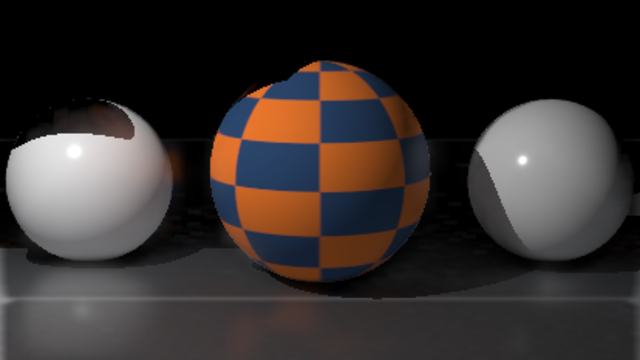
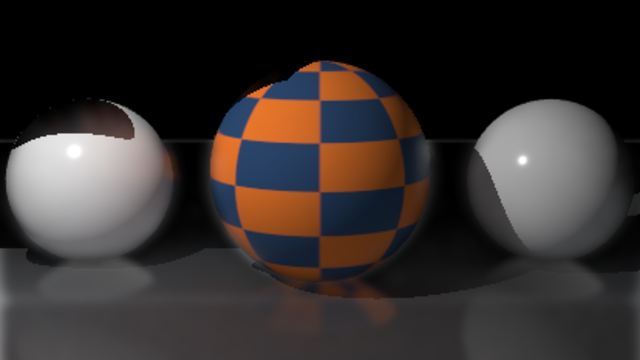
fix(#302): soften the shadow map's edge and script the moving check
One session with lights, shadows, ambient occlusion, bounce light, textures
and depth of field on, driven through a 360 orbit, a dolly, a low terminator
sweep and twelve still frames. The bounce and reflection work holds in
motion: still frames are bit-identical and no frame-to-frame step stands
above its neighbours, so there is no speckle, tier pop or reflection offset.

What the moving frames did show was the shadow map's cast edge: at a close
view one texel is many pixels, so the sphere's shadow on the floor was a
hard chunky boundary that crawled as the camera moved. The percentage-
closer filter now gathers 5 by 5 texels and the shadow sampler is bilinear,
turning that edge into a soft penumbra. It costs 25 taps instead of 9 in a
shadowed fragment; the capture still ran at about 20 frames a second at
734 by 708 including the PNG write.

`tools/render_parity/motion_capture.py` repeats the whole check in one
launch, and `modelEditor -depthOfField` drives that viewport toggle from
scripts. The parity captures are recaptured for the softer shadow.

diff --git a/tools/render_parity/motion_capture.py b/tools/render_parity/motion_capture.py
@@ -1,0 +1,99 @@
+"""A moving check of the realtime viewport: one session, every feature on, four camera passes.
+
+Run it with the app:
+
+    MOTION_OUT=/tmp/aztek_motion build/Aztek/AppRun --script tools/render_parity/motion_capture.py \
+        examples/rendering/reflections.ma
+
+It turns on Realtime's lights, shadows, ambient occlusion, bounce light, textures and depth of field, then writes:
+
+  orbit.####.png   a full 360-degree turntable at constant speed
+  dolly.####.png   a dolly from far away to close and back, with the focus tracking the subject
+  sweep.####.png   a low sweep from the lit side to the dark side, so the terminator crosses the spheres
+  still.####.png   twelve frames of an unmoving camera; any difference between them is temporal instability
+
+All but the last use keyframed cameras and the app's own playblast, so the motion is smooth and one launch serves the
+whole pass. The frames are the viewport size at 100 percent. Hide the grid and the ornaments: they are guides, and at
+grazing angles the grid's smooth lines can read over a sphere, which is a display layer and not the shaded picture.
+"""
+import os
+import maya.cmds as cmds
+
+OUT = os.environ.get("MOTION_OUT", "/tmp/aztek_motion")
+os.makedirs(OUT, exist_ok=True)
+
+panel = cmds.playblast(q=True, activeEditor=True)
+cmds.modelEditor(panel, edit=True, displayLights="all", shadows=True, ambientOcclusion=True,
+                 bounceLight=True, depthOfField=True, displayTextures=True, grid=False)
+state = {
+    "displayLights": cmds.modelEditor(panel, q=True, displayLights=True),
+    "shadows": cmds.modelEditor(panel, q=True, shadows=True),
+    "ambientOcclusion": cmds.modelEditor(panel, q=True, ambientOcclusion=True),
+    "bounceLight": cmds.modelEditor(panel, q=True, bounceLight=True),
+    "depthOfField": cmds.modelEditor(panel, q=True, depthOfField=True),
+    "displayTextures": cmds.modelEditor(panel, q=True, displayTextures=True),
+    "grid": cmds.modelEditor(panel, q=True, grid=True),
+}
+print("MOTION FEATURES", state)
+
+
+def make(name, pos, focus):
+    made = cmds.camera(n=name, focalLength=42)
+    tr = made[0] if isinstance(made, (list, tuple)) else made
+    sh = made[1] if isinstance(made, (list, tuple)) and len(made) > 1 else tr + "Shape"
+    pivot = cmds.group(em=True, n=name + "Pivot")
+    cmds.move(0, 1.5, 0, pivot)
+    cmds.parent(tr, pivot, r=True)
+    cmds.move(pos[0], pos[1], pos[2], tr, os=True, r=True)
+    cmds.aimConstraint(pivot, tr, aim=(0, 0, -1), u=(0, 1, 0))
+    cmds.setAttr(sh + ".depthOfField", 1)
+    cmds.setAttr(sh + ".fStop", 1.4)
+    cmds.setAttr(sh + ".focusDistance", focus)
+    cmds.lookThru(tr)
+    return tr, sh, pivot
+
+
+def play(stem, last):
+    cmds.playbackOptions(min=1, max=last)
+    path = os.path.join(OUT, stem)
+    cmds.playblast(st=1, et=last, f=path, fmt="image", c="png", v=False, fo=True, p=100, showOrnaments=False)
+    print("MOTION WRITTEN", path)
+
+
+# (a) Full 360 orbit at constant speed.
+N = 90
+tr, sh, pivot = make("orbitCam", (0, 2.2, 12), 12.0)
+cmds.setKeyframe(pivot, at="ry", t=1, v=0)
+cmds.setKeyframe(pivot, at="ry", t=N + 1, v=360)
+cmds.keyTangent(pivot, at="ry", itt="linear", ott="linear")
+play("orbit", N)
+
+# (b) Dolly from very distant to close and back, focus tracking the subject.
+N = 90
+tr, sh, pivot = make("dollyCam", (0, 2.2, 60), 60.0)
+cmds.setKeyframe(tr, at="tz", t=1, v=60)
+cmds.setKeyframe(tr, at="tz", t=45, v=8)
+cmds.setKeyframe(tr, at="tz", t=N + 1, v=60)
+cmds.keyTangent(tr, at="tz", itt="linear", ott="linear")
+cmds.setKeyframe(sh, at="focusDistance", t=1, v=60)
+cmds.setKeyframe(sh, at="focusDistance", t=45, v=8.3)
+cmds.setKeyframe(sh, at="focusDistance", t=N + 1, v=60)
+cmds.keyTangent(sh, at="focusDistance", itt="linear", ott="linear")
+play("dolly", N)
+
+# (c) Low sweep from the lit side to the dark side, so the terminator crosses the spheres.
+N = 90
+tr, sh, pivot = make("sweepCam", (0, 0.1, 11), 11.0)
+cmds.setKeyframe(pivot, at="ry", t=1, v=0)
+cmds.setKeyframe(pivot, at="ry", t=N + 1, v=180)
+cmds.keyTangent(pivot, at="ry", itt="linear", ott="linear")
+play("sweep", N)
+
+# (d) A still camera for twelve frames: any change here is temporal instability, not motion.
+tr, sh, pivot = make("stillCam", (0, 2.2, 12), 12.0)
+last = 12
+cmds.playbackOptions(min=1, max=last)
+cmds.playblast(st=1, et=last, f=os.path.join(OUT, "still"), fmt="image", c="png", v=False, fo=True, p=100, showOrnaments=False)
+print("MOTION WRITTEN", os.path.join(OUT, "still"))
+
+print("MOTION DONE")

diff --git a/crates/aztek_host/src/panel_cmds.rs b/crates/aztek_host/src/panel_cmds.rs
@@ -166,6 +166,7 @@ const DISP: &[(&str, &str)] = &[
     ("shadows", "shadows"),
     ("bounceLight", "bounceLight"),
     ("ambientOcclusion", "ambientOcclusion"),
+    ("depthOfField", "depthOfField"),
     ("manipulators", "manipulators"),
     ("xray", "xray"),
     ("xrayJoints", "jointXray"),
@@ -251,7 +252,7 @@ fn get_panel(a: &Args) -> CmdResult {
     })
 }
 
-const EDITOR_FLAGS: &str = "activeOnly:ao:b activeView:av:b allObjects:alo:b ambientOcclusion:aoc:b backfaceCulling:bfc:b bounceLight:bl:b camera:cam:a cameras:ca:b clipGhosts:cg:b controlVertices:cv:b controllers:ctrl:b deformers:df:b dimensions:dim:b displayAppearance:da:a displayLights:dl:a displayTextures:dtx:b dynamicConstraints:dc:b dynamics:dy:b fluids:fl:b follicles:fo:b fogging:fg:b grid:gr:b hairSystems:hs:b handles:ha:b headsUpDisplay:hud:b hulls:hu:b ikHandles:ikh:b imagePlane:imp:b joints:j:b jointXray:jx:b lights:lt:b locators:lc:b lockMainConnection:lck:b lowQualityLighting:lql:b manipulators:m:b motionTrails:mt:b nCloths:ncl:b nParticles:npa:b nRigids:nr:b nurbsCurves:nc:b nurbsSurfaces:ns:b objectFilterShowInHUD:ofs:b panel:pnl:a parent:p:a pivots:pv:b planes:pl:b pluginObjects:po:a2 pluginShapes:ps:b polymeshes:pm:b rendererName:rnm:a selectionHiliteDisplay:sel:b shadows:sdw:b smoothWireframe:swf:b sortTransparent:st:b strokes:str:b subdivSurfaces:sds:b textures:tx:b twoSidedLighting:tsl:b useDefaultMaterial:udm:b viewObjects:vo:b viewSelected:vs:b wireframeBackingStore:wbs:b wireframeOnShaded:wos:b xray:xr:b activeComponentsXray:acx:b exists:ex:b query:q:b edit:e:b queried::a";
+const EDITOR_FLAGS: &str = "activeOnly:ao:b activeView:av:b allObjects:alo:b ambientOcclusion:aoc:b backfaceCulling:bfc:b bounceLight:bl:b depthOfField:dof:b camera:cam:a cameras:ca:b clipGhosts:cg:b controlVertices:cv:b controllers:ctrl:b deformers:df:b dimensions:dim:b displayAppearance:da:a displayLights:dl:a displayTextures:dtx:b dynamicConstraints:dc:b dynamics:dy:b fluids:fl:b follicles:fo:b fogging:fg:b grid:gr:b hairSystems:hs:b handles:ha:b headsUpDisplay:hud:b hulls:hu:b ikHandles:ikh:b imagePlane:imp:b joints:j:b jointXray:jx:b lights:lt:b locators:lc:b lockMainConnection:lck:b lowQualityLighting:lql:b manipulators:m:b motionTrails:mt:b nCloths:ncl:b nParticles:npa:b nRigids:nr:b nurbsCurves:nc:b nurbsSurfaces:ns:b objectFilterShowInHUD:ofs:b panel:pnl:a parent:p:a pivots:pv:b planes:pl:b pluginObjects:po:a2 pluginShapes:ps:b polymeshes:pm:b rendererName:rnm:a selectionHiliteDisplay:sel:b shadows:sdw:b smoothWireframe:swf:b sortTransparent:st:b strokes:str:b subdivSurfaces:sds:b textures:tx:b twoSidedLighting:tsl:b useDefaultMaterial:udm:b viewObjects:vo:b viewSelected:vs:b wireframeBackingStore:wbs:b wireframeOnShaded:wos:b xray:xr:b activeComponentsXray:acx:b exists:ex:b query:q:b edit:e:b queried::a";
 
 fn add_spec(mut c: Cmd, spec: &str) -> Cmd {
     for t in spec.split_whitespace() {
@@ -309,7 +310,7 @@ fn editor_default(flag: &str) -> Value {
         "displayLights" => json!("default"),
         "rendererName" => json!("vp2Renderer"),
         "headsUpDisplay" | "selectionHiliteDisplay" | "twoSidedLighting" | "bounceLight" => json!(true),
-        "ambientOcclusion" => json!(false),
+        "ambientOcclusion" | "depthOfField" => json!(false),
         "displayTextures" | "wireframeOnShaded" | "xray" | "jointXray" | "activeComponentsXray" | "backfaceCulling" | "useDefaultMaterial" | "activeOnly" | "viewSelected" | "shadows" => json!(false),
         k if OBJECT_FLAGS.contains(&k) => json!(true),
         _ => Value::Null,

diff --git a/crates/aztek_host/src/render.rs b/crates/aztek_host/src/render.rs
@@ -523,13 +523,15 @@ float shadow_at(vec3 p, vec3 n) {
     if (q.x < 0.0 || q.x > 1.0 || q.y < 0.0 || q.y > 1.0 || q.z > 1.0 || q.z < 0.0) return 1.0;
     float texel = lt.shadow.y;
     float sum = 0.0;
-    for (int y = -1; y <= 1; y += 1) {
-        for (int x = -1; x <= 1; x += 1) {
-            float d = texture(sampler2D(t_shadow, s_shadow), q.xy + vec2(float(x), float(y)) * texel * 1.5).r;
+    // A 5 by 5 gather, bilinearly read: the map's edge is chunky at a close view where one texel is many pixels, and
+    // it crawls as the camera moves. The wider filtered kernel turns that into a soft penumbra.
+    for (int y = -2; y <= 2; y += 1) {
+        for (int x = -2; x <= 2; x += 1) {
+            float d = texture(sampler2D(t_shadow, s_shadow), q.xy + vec2(float(x), float(y)) * texel).r;
             sum += q.z - 0.0015 <= d ? 1.0 : 0.0;
         }
     }
-    return sum / 9.0;
+    return sum / 25.0;
 }
 // What a rectangle of light sends to a matte surface at x facing n, as its radiance times this: the exact integral of
 // the cosines over the distance squared across it (Lambert's polygon formula). Corners p0..p3 go round it so that

diff --git a/crates/aztek_host/src/realtime.rs b/crates/aztek_host/src/realtime.rs
@@ -250,8 +250,10 @@ impl Realtime {
             let sampler = d
                 .create_sampler(
                     &vk::SamplerCreateInfo::default()
-                        .mag_filter(vk::Filter::NEAREST)
-                        .min_filter(vk::Filter::NEAREST)
+                        // Bilinear, so the percentage-closer comparison reads a filtered depth and the shadow edge is
+                        // smooth instead of a stair-step of texels.
+                        .mag_filter(vk::Filter::LINEAR)
+                        .min_filter(vk::Filter::LINEAR)
                         .address_mode_u(vk::SamplerAddressMode::CLAMP_TO_EDGE)
                         .address_mode_v(vk::SamplerAddressMode::CLAMP_TO_EDGE)
                         .address_mode_w(vk::SamplerAddressMode::CLAMP_TO_EDGE),

diff --git a/PARITY.md b/PARITY.md
@@ -4559,3 +4559,24 @@ screen-space variant of that idea: the bounce rays are clamped and decorrelated,
 blurred along each axis in quad passes and read with a linear sample, so the shading sees a smooth irradiance field
 rather than the sample points. Temporal reprojection would be the next step if the screen-space field is not enough;
 the clamp, the low-discrepancy sequence and the filtered lookup are the parts that matter for the blocks today.
+
+### A moving check of the realtime viewport (26/11/2026, #302)
+
+`tools/render_parity/motion_capture.py` runs one session with lights, shadows, ambient occlusion, bounce light,
+textures and depth of field on, and writes four keyframed playblasts: a full 360-degree orbit, a dolly from far to
+close and back, a low sweep from the lit side to the dark side, and twelve frames of an unmoving camera to catch
+temporal instability. The app's `playblast` sets each frame and renders the live viewport, so the motion is smooth and
+one launch serves a whole pass.
+
+The moving capture found the bounce and reflection work stable: twelve still frames were bit-identical, and the
+orbit, dolly and sweep had no frame-to-frame step above 1.6 times its neighbours' mean. There was no speckle, no tier
+pop and no reflection offset at any angle. What did show was the shadow map's cast edge: at a close view one texel is
+many pixels, so the sphere's shadow on the floor was a hard, chunky boundary that crawled as the camera moved. The
+percentage-closer filter now gathers 5 by 5 texels and the shadow sampler is bilinear, so that edge is a soft
+penumbra. The cost is 25 taps instead of 9 in the shadowed fragment; with this scene the capture still ran at about
+20 frames a second at 734 by 708 including the PNG write, and the app's own draw timing stayed at about 0.2 ms.
+
+Two display-layer edges stay: a one-pixel dashed rim on a sphere is MSAA coverage quantisation, not shading, and the
+grid's smooth lines can read over a sphere at grazing angles. The parity capture hides the grid, and the motion script
+does too; both are guides rather than the shaded picture. The depth-of-field view is available to scripts through
+`modelEditor -depthOfField`, which is how the capture turns it on.

diff --git a/TICKETS.md b/TICKETS.md
@@ -36,6 +36,12 @@ Requests waiting or in progress, newest detail kept. Move to Done with the date 
   score, planar/alpha coverage, a roughness-to-level prefiltered gather, and a filtered screen-space irradiance field
   for the bounce instead of raw stochastic samples. Left of that design: EEVEE's world clip plane at the probe's plane
   (the suite's geometry never crosses it) and temporal reprojection of the indirect term.
+- Realtime motion polish (#302, 26/11/2026): `tools/render_parity/motion_capture.py` checks one session with every
+  feature on over an orbit, a dolly, a low terminator sweep and twelve still frames. The bounce, reflection and AO
+  terms are temporally stable (still frames are bit-identical, no frame-diff spikes) and show no speckle or tier pop.
+  Pass one widened the shadow map's PCF to 5 by 5 with a bilinear sampler, which softens the cast edge that crawled
+  at close range. Left: a one-pixel MSAA rim on a silhouette, the grid's smooth lines reading over a sphere at
+  grazing angles, and the reflection's sharp horizon on a smooth sphere, which is the scene's own image.
   Left: the sky dome is still not drawn as the viewport's background, the viewport frames about 12% tighter than the
   Render View, only the widest flat ground mesh is mirrored, and a point light close to a large floor can leave a cube
   shadow seam.
